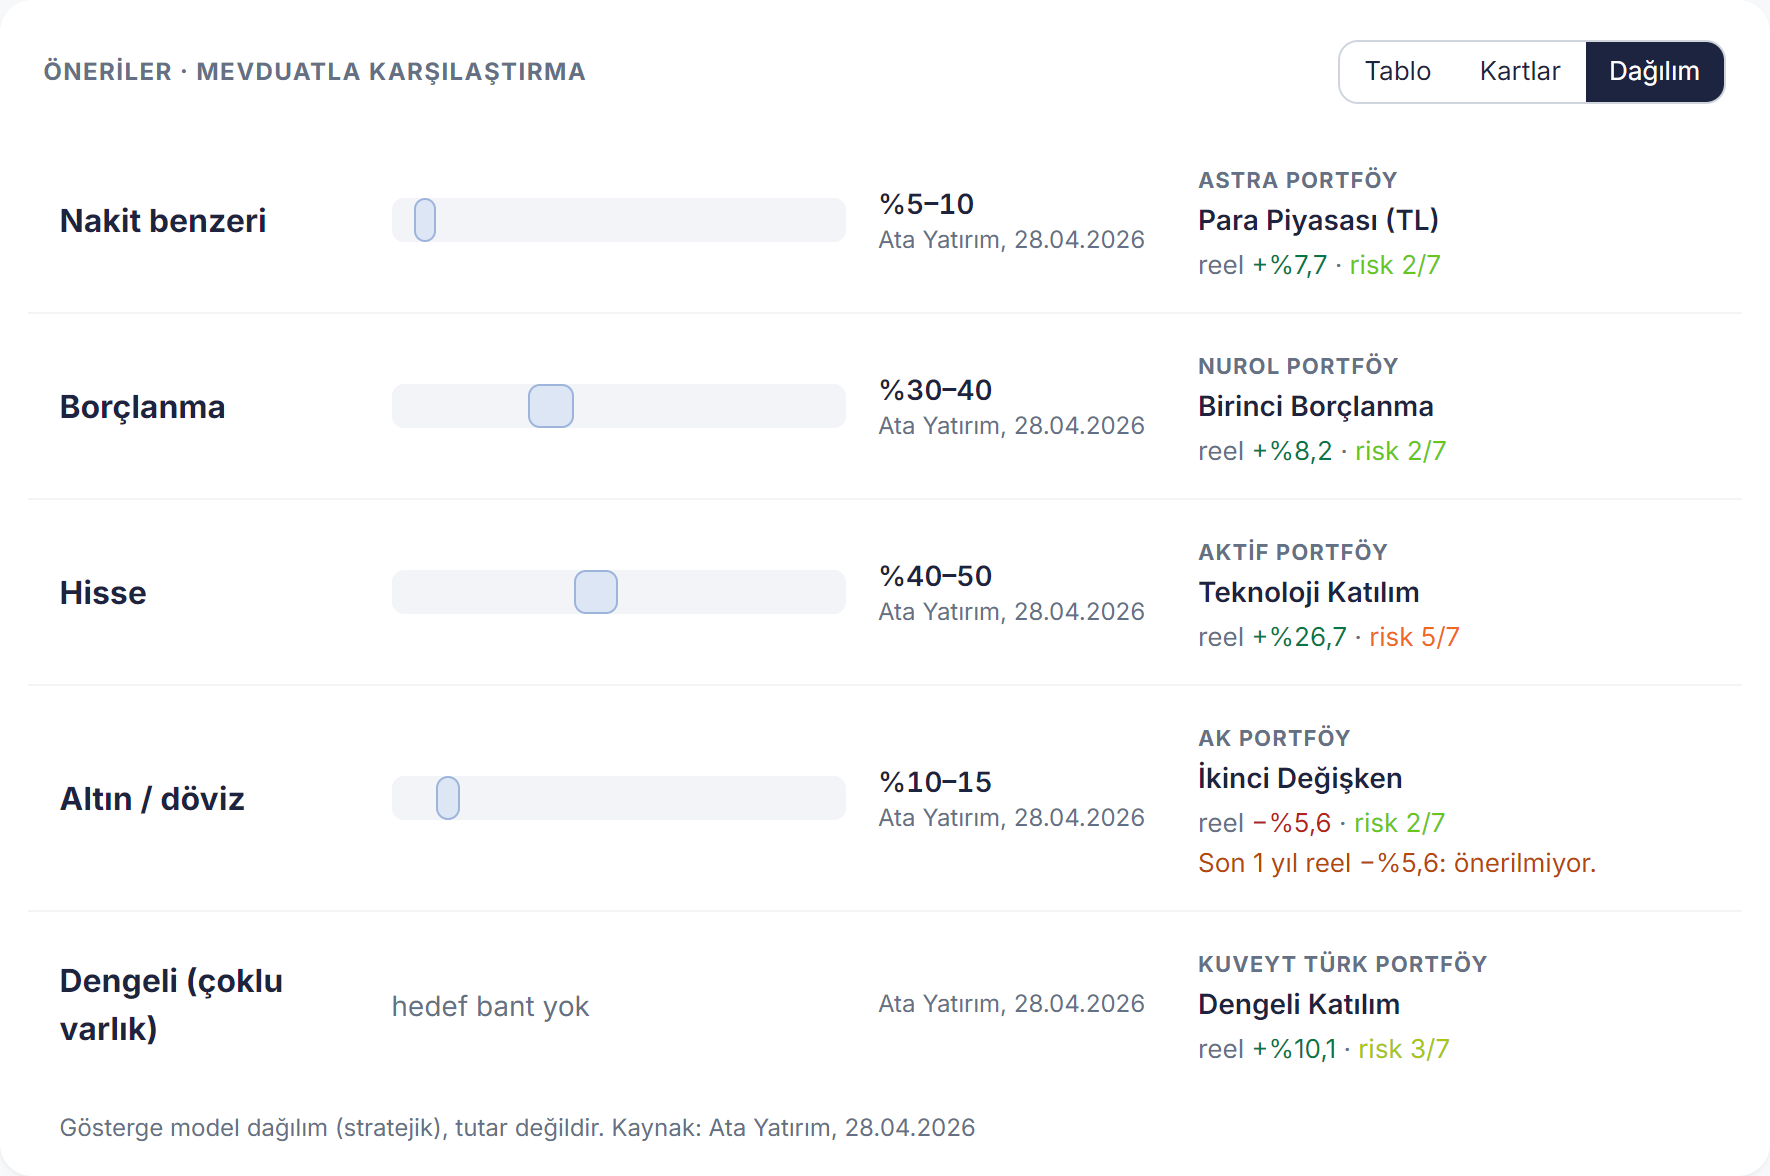
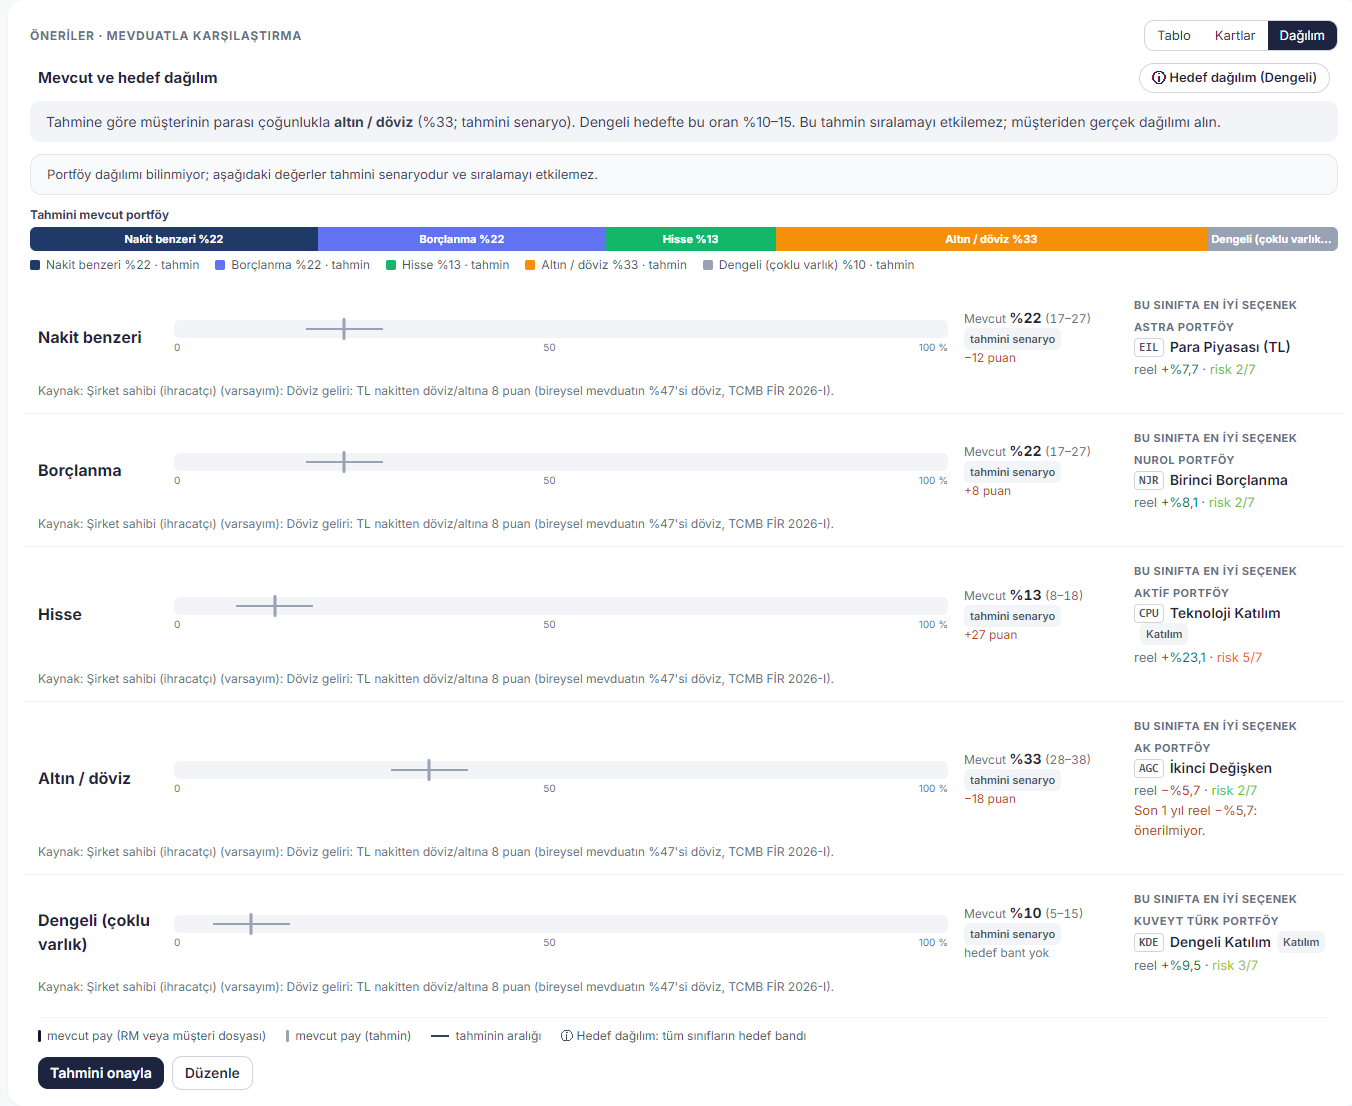
README: new screenshots of the current app (17.10 data): dashboard, decision pipeline, fund card, allocation, agent stages and picks, research marks, meeting-text wait and page, Teyit edin, evidence; fair A/B tally of the agent eval

diff --git a/README.md b/README.md
@@ -11,11 +11,10 @@ araştırmasıyla karşılaştırıp kendi ilk 3'ünü önerir; her adımı kodl
 Her sayı kaynağı, tarihi ve kanıt kimliğiyle izlenebilir.
 **Araç yatırım tavsiyesi vermez; kararı ve müşteri iletişimini RM yapar.**
 
-![P02 panosu: önerilen ilk 3, mevduatla karşılaştırma, "Teyit edin" ve onay çubuğu](docs/img/readme/dashboard.png)
-*P02 (ihracatçı, Dengeli) panosu. Solda gündem ve "Teyit edin" maddeleri;
-sağda önerilen ilk 3; en altta RM'in onay çubuğu. (Ekran görüntüsü 14.10.2026
-sürümünden. Bugünkü sürümde gündem tam genişlikte, ajan kutusu onun altında;
-arayüz yalnızca Türkçe.)*
+![P02 panosu: profil, AI ile bulunan teyit soruları, piyasa notu ve onay çubuğu](docs/img/readme/dashboard.png)
+*P02 (ihracatçı, Dengeli) panosu, 17.10.2026 verisi. Üstte profil ve AI
+kontrolünün alıntılı "Sorulacak" bulguları; ortada kodun yazdığı piyasa notu
+(her değer "K" ile kanıta bağlı); en altta RM'in onay çubuğu.*
 
 Hızlı başlangıç (Windows, Python 3.11+, Node yalnızca web derlemesi için):
 
@@ -174,6 +173,11 @@ flowchart TB
     R4 -.-> X
 ```
 
+Ekranda aynı huni "Bu öneriler nasıl seçildi?" bloğundadır: müşterinin kriter
+ağırlıkları, kural başına elenen sayısı ve istikrar sonucu.
+
+![Bu öneriler nasıl seçildi: profil ve ağırlıklar, 1.444 seçenek, 1.138 elendi, 306 aday, 3 öneri](docs/img/readme/pipeline.png)
+
 Bilinmeyen risk değeri bir eleme nedeni değildir: aynı sınıftaki bilinen
 risklerin üst çeyreğiyle tahmin edilir, güveni düşürür ve RM'e uyarı verir.
 
@@ -220,6 +224,12 @@ anapara 0,102 · kalite 0,051.
 | ING e-Vadeli Mevduat | nakit benzeri | +%2,1 | 0,434 | sıralanır, ama nakit benzeri yeri EIL'de |
 | ING Turuncu Hesap (karşılaştırma) | nakit benzeri | −%8,3 | 0,185 | reel kayıp ve piyasa altı cezaları |
 
+Fon kartı ("Neden bu öneri?") her puan parçasını gerekçesiyle, geçtiği katı
+kuralları kanıt kimlikleriyle ve en yakın alternatifle farkını gösterir
+(ekranda puanlar ×100):
+
+<img src="docs/img/readme/fundcard.png" alt="EIL fon kartı: uygunluk, benzerleri arasında sıra, kategoriye göre getiri, belgeler, puan parçaları, geçtiği kurallar, en yakın alternatif" width="420">
+
 RPP (0,775) KDE'den yüksek puan alır, ama tek nakit benzeri yeri EIL doldurur.
 P02'nin döviz kısıtı 15 döviz fonunu eler; RM bu kısıtı gerekçe yazarak
 kaldırabilir. Aynı gün beş personanın ilk 3'ü:
@@ -234,9 +244,10 @@ kaldırabilir. Aynı gün beş personanın ilk 3'ü:
 
 **Dağılım görünümü** ayrıca risk profiline göre model bantları (Ata Yatırım,
 28.04.2026), müşterinin mevcut dağılımını ve her sınıfın en iyi seçeneğini
-gösterir.
+gösterir. P02'nin dosyasında dağılım yok: değerler "tahmini senaryo"dur ve RM
+"Tahmini onayla" veya "Düzenle" diyene kadar sıralamayı etkilemez.
 
-![Dağılım görünümü: varlık sınıfı başına model bant ve sınıfın en iyi seçeneği](docs/img/readme/allocation.png)
+![Dağılım görünümü: tahmini mevcut portföy, varlık sınıfı başına model bant ve sınıfın en iyi seçeneği](docs/img/readme/allocation.png)
 
 ## 4. Genel çözüm mimarisi ve veri akışı
 
@@ -339,6 +350,18 @@ olursa ajan sorunları alır ve bir kez düzeltir; ikinci hata, süre aşımı
 (Adaylar, Ajan araştırması, Ajan analizi, Kontrol, Karar) zaman, maliyet ve
 notlarıyla görür; ham model düşüncesi saklanmaz ve gösterilmez.
 
+![Ajanın beş adımı: Adaylar, Ajan araştırması, Ajan analizi, Kontrol, Karar; süre ve maliyetle](docs/img/readme/agent.png)
+
+![Ajan önerisi (P01): seçilen 3 fon atıflı gerekçeleriyle, çıkarılan AIS ve nedeni, motor sıralamasına bağlantı](docs/img/readme/agent-picks.png)
+*P01 için ajan motorun AIS'ini çıkarıp ZBJ'yi aldı. Her gerekçe bir puan
+parçasına veya kanıt kimliğine bağlıdır; tahmini dağılıma dayanan cümle
+"(tahmini dağılıma göre)" etiketini kodla alır.*
+
+Ajanın ve RM'in gördüğü web araştırması. RM her bulguyu ✓ veya ✗ ile
+işaretler; ✗ işaretli bulgu "ajana verilmez":
+
+![Ajan araştırması: her öneri için tarihli haberler ve öne çıkanlar, kaynak numaraları, ✓/✗ işaretleri](docs/img/readme/research.png)
+
 ```mermaid
 sequenceDiagram
     actor RM
@@ -379,6 +402,16 @@ olmayan oran; tahmini dağılımın sayısı; eksik bölüm veya eksik "yatırı
 tavsiyesi değildir" cümlesi. Piyasa notu (politika faizi, USD/TRY, fonlama
 maliyeti) LLM'e hiç yazdırılmaz: kod yazar, her değer kanıt kimliğiyle.
 
+Metin yazılırken RM anlatıcının adımlarını ve her adımın girdisini görür:
+
+![Metin hazırlanıyor: profil, onaylanan öneriler, piyasa verileri, yazım kuralları, yapay zekâ yazıyor, kontrol](docs/img/readme/text-wait.png)
+
+Görüşme metni tek sayfadır. Beyaz alan müşteriye gösterilecek sunumdur; sarı
+kutular yalnızca RM içindir ve "Sunum görünümü"nde ve çıktıda yer almaz. Her
+kaynak numarası sağdaki "Kaynaklar" listesinde kanıt kimliğine bağlanır:
+
+![Görüşme metni (P01): müşterinin hedefi, RM'e özel kutular, piyasa notu, temel sayılar, reel getiri grafiği ve kaynaklar](docs/img/readme/text.png)
+
 **Neden bu ayrım?** Ajan, tek bir puanın gösteremediği şeyleri tartar:
 güncel haberler, iki adayın nitel farkı, müşterinin mevcut dağılımı. Ama
 kararı kodun sınırları içinde verir ve RM motorun ilk 3'ünü her zaman yan
@@ -409,6 +442,11 @@ ağaçlarında, dondurulmuş sözleşmelerle ve her adımda yeşil testlerle
 | Tahmin yerine soru | risk profili veya kısıt tanınmazsa sıralama durur ve RM'e soru açılır; diğer bilinmeyenlerde güvenli düzey + "Teyit edin" maddesi |
 | Profil çelişkileri | 8 sabit kural ve AI kontrolü (ör. "Muhafazakâr" ile büyüme önceliği; `durum`'da gelecek yıl ev peşinatı ile likidite "Düşük") |
 | Uyarılar (yalnızca RM) | düşük istikrar, tahmini risk, döviz fonu, tek pay, payda sert düşüş, ING oranı piyasanın altında, süresi geçmiş stopaj veya eski TÜFE |
+
+Ekranda belirsizlik "Teyit edin" listesine dönüşür. Motorun okuyamadığı bir
+alan güvenli düzeyle devam eder ve RM'e yanıt seçenekleriyle bir soru açar:
+
+![Gündem ve Teyit edin (P02): konuşulacak üç nokta, mevcut dağılım, döviz düzeyi, döviz kısıtı ve kur riski soruları](docs/img/readme/agenda.png)
 
 **İnsan onay noktaları:**
 
@@ -468,10 +506,15 @@ anlık görüntü `20261014-233110-1565`, istem n12):
 | LLM hakemi: uyarlanmış / açık / dengeli | %50 / %50 / %58 | yön göstergesi |
 
 Ajan değerlendirmesi (`20261015-182316`, 8 karar): kod denetimi 8/8, yedek 0;
-önbellekten tekrar 8/8 aynı; önbelleksiz tekrar 5/8 aynı. Kör A/B hakemi:
-ajan 5, motor 0, eşit 1. Aday listesi düzeltildikten sonra P03 için yeniden
-çalıştırmada sonuç motor 2, ajan 0 oldu: ajanın üstünlüğü kanıtlanmış değildir.
-Bu yüzden RM iki listeyi yan yana görür ve kararı RM verir.
+önbellekten tekrar 8/8 aynı; önbelleksiz tekrar 5/8 aynı. Kör A/B hakemi
+(Claude Haiku, "Hangisi müşteriye daha uygun ve neden?") ilk turda ajan 5,
+motor 0, eşit 1 dedi. Ama ajanın 3 kazancı P03'teydi: motorun seçtiği IDY ve
+OKT ajanın aday listesinde yoktu, bu yüzden hakem onların verisini göremedi.
+Adaylar motorun ilk 3'üyle başlayacak biçimde düzeltildi; P03 yeniden
+çalıştırıldı: motor 2, ajan 0. Adil karşılaştırmalar toplamda ajan 3 (P01,
+olumsuz haber senaryosu, RM işaretleri), motor 2, eşit 1. Ajanın
+üstünlüğü kanıtlanmış değildir. Bu yüzden RM iki listeyi yan yana görür ve
+kararı RM verir.
 
 **Hata analizleri ve iyileştirmeler** (tam liste: [`docs/found-and-fixed.md`](docs/found-and-fixed.md)):
 
@@ -532,12 +575,12 @@ flowchart LR
 
 Ekranda her sayının yanındaki **"K"** işareti kanıt penceresini açar:
 
-![Kanıt penceresi: değer, kaynak, değer tarihi, alınma zamanı, kanıt kimliği ve bayraklar](docs/img/readme/evidence.png)
+<img src="docs/img/readme/evidence.png" alt="Kanıt penceresi: değer, kaynak, değer tarihi, alınma zamanı, kanıt kimliği ve bayraklar" width="448">
 
-*Örnek (14.10.2026): EIL'in 1 yıllık getirisi %48,2; kaynak TEFAS getiri
-sayfası; değer tarihi 13.10.2026 (önceki iş günü); alınma zamanı 14.10.2026
-10:23; kanıt kimliği `Ef0e41e81`; bayrak yok.* Tam bir karar kaydı örneği:
-[Teslimat 6](docs/teslim/06-kanit-kaydi-ornegi.md).
+*Örnek: EIL'in 1 yıllık getirisi %48,13; kaynak TEFAS getiri sayfası
+(`tefas_web`); değer tarihi 16.10.2026 (önceki iş günü); alınma zamanı
+17.10.2026 11:04; kanıt kimliği `Edede971a`; bayrak yok.* Tam bir karar kaydı
+örneği: [Teslimat 6](docs/teslim/06-kanit-kaydi-ornegi.md).
 
 ---
 
